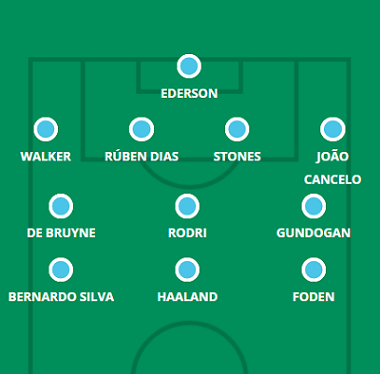
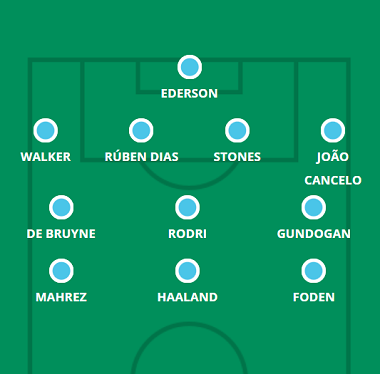
atualização 6° rodada

diff --git a/city.html b/city.html
@@ -66,7 +66,7 @@
             <hgroup>
                 <h1> Provável Escalação</h1>
                 <h2 class="direita"> por FabioVascão </h2>
-                <h3 class="direita"> Atualizado em 30/Agosto/2022 </h3>
+                <h3 class="direita"> Atualizado em 02/Setembro/2022 </h3>
             </hgroup>
     
             <h2 class="time"> <img src="_fotos/_logos/logocity.png" />Manchester City</h2>
@@ -75,9 +75,9 @@
                     <img src="_fotos/_dinamicas/city.png" />
                 </figure>
             </aside>
-                <div class="escalacao"><h2 class="titulo">Ultimas Notícias</h2> <h4><p>Pep Guardiola nos deu muito pouco sobre as notícias da equipe na conferência de imprensa de terça-feira, então o status atual de disponibilidade de Jack Grealish (pancada), Nathan Ake (lesão na virilha), Kalvin Phillips (lesão no ombro) e Luke Mbete (lesão na cabeça) é desconhecido. A única coisa que recebemos do chefe do City foi que Ilkay Gundogan não foi titular contra o Palace por causa de cansaço, então o alemão poderia voltar à disputa aqui depois que sua introdução ajudou a influenciar uma vitória na 4° Rodada. A rotação é grande esta semana, já que a programação de dois jogos por semana do City começa agora, e um jogo em casa contra um time recém-promovido faz soar um pouco o alarme. Os jogadores 'acertados' que começaram todas as partidas nesta temporada, como Rodri, Kevin De Bruyne, Erling Haaland, os dois zagueiros e Phil Foden, terão fôlego em algum momento, embora a regra dos 'cinco substitutos' permita várias retiradas antecipadas se o jogo estiver pronto e espanado. Pelo menos três quartos da linha defensiva (incluindo os dois zagueiros) permanecerão inalterados para este, com a única alteração possível sendo um primeiro início de liga para Sergio Gomez às custas de João Cancelo ou Kyle Walker. Pode ser novamente dois de três de Bernardo Silva, Gundogan e Riyad Mahrez ao lado dos sempre presentes mais avançados, entretanto, com Mahrez periférico contra o Palace antes de ser fisgado na marca da hora. O coringa no pelotão pode ser Julian Alvarez: não apenas uma opção para fora se necessário, ele também é o vice de Haaland no meio - algo que Guardiola discutiu em seu presser pré-jogo ("quando Erling não jogar, vamos jogar contra Julian ").</p></h4><br>
-                    <h4><strong>Jogadores fora da próxima partida:</strong> Aké, Delap, Laporte, Mcatee e Steffen</h4><br><br>
-                    <h4><strong>Jogadores dúvidas:</strong> Grealish, Mbete e Phillips</h4>
+                <div class="escalacao"><h2 class="titulo">Ultimas Notícias</h2> <h4><p>Aymeric Laporte (lesão no joelho) permanece de fora e Kalvin Phillips (lesão no ombro) ainda não voltou aos treinos, mas Jack Grealish (torção) e Nathan Ake (lesão na virilha) estão de volta à grama com seus companheiros de equipe e podem retornar ao elenco da rodada neste fim de semana. Pelo menos três quartos da linha de fundo provavelmente permanecerão inalterados para este, uma vez que um início pode estar além de Ake, com a única alteração possível sendo um início de primeira liga para Sergio Gomez às custas de João Cancelo ou Kyle Walker; Ele ganhar  minutos como substituto no segundo tempo parecem o cenário mais provável lá novamente. Kevin De Bruyne certamente retornará após sua surpresa no banco no meio da semana, então provavelmente será novamente dois de três de Bernardo Silva, Gundogan e Riyad Mahrez ao lado dos regulares mais à frente, com Bernardo entrando nesta partida após quatro partidas consecutivas pelo City , apenas um dos quais - o amistoso contra o Barcelona - o viu substituído. Mahrez, por sua vez, foi titular em casa e fora contra o Villa em 2021/22, se isso contar alguma coisa. A questão na boca de todos é se Erling Haaland vai começar de novo, com Pep Guardiola fazendo comentários positivos quando perguntado sobre como lidar com seu norueguês com cuidado - o técnico do City disse que "não é um problema" para um atacante de 22 anos se recuperar facilmente durante um período de congestionamento de jogos. Julian Alvarez provavelmente compartilhará minutos com o norueguês de uma forma ou de outra, enquanto a dupla começou no mesmo time na quarta-feira na goleada de 6-0 do Forest.</p></h4><br>
+                    <h4><strong>Jogadores fora da próxima partida:</strong> Laporte</h4><br><br>
+                    <h4><strong>Jogadores dúvidas:</strong> Aké, Grealish e Phillips</h4>
                 </div> 
         </header>
         </article>

diff --git a/westham.html b/westham.html
@@ -66,7 +66,7 @@
             <hgroup>
                 <h1> Provável Escalação</h1>
                 <h2 class="direita"> por FabioVascão </h2>
-                <h3 class="direita"> Atualizado em 30/Agosto/2022 </h3>
+                <h3 class="direita"> Atualizado em 02/Setembro/2022 </h3>
             </hgroup>
     
             <h2 class="time"> <img src="_fotos/_logos/logowestham.png" />West Ham</h2>
@@ -75,9 +75,9 @@
                     <img src="_fotos/_dinamicas/westham.png" />
                 </figure>
             </aside>
-                <div class="escalacao"><h2 class="titulo">Ultimas Notícias</h2> <h4><p>Nayef Aguerd (lesão no tornozelo) é o único ausente definitivo para a viagem ao Aston Villa, mas Craig Dawson (lesão na coxa) e Ben Johnson (lesão na coxa) são considerados dúvidas significativas e Aaron Cresswell reclamou de dores na virilha após a vitória sobre o Aston Villa. A nova contratação Lucas Paqueta também não deve aparecer, já que os Hammers passam pela burocracia necessária com sua nova contratação. Este é o terceiro jogo em sete dias para o West Ham, enquanto uma viagem para o Chelsea segue no sábado - então David Moyes poderia fazer algumas mudanças para este. Pablo Fornals e Gianluca Scamacca começaram cada uma das duas últimas partidas oficiais e podem estar em risco de respiro, com Michail Antonio, Said Benrahma e Maxwel Cornet opções relativamente descansadas no ataque. Enquanto isso, Emerson Palmieri pode ter que substituir a lateral-esquerda se Cresswell e Johnson estiverem fora.</p></h4><br>
-                    <h4><strong>Jogadores fora da próxima partida:</strong> Aguerd</h4><br><br>
-                    <h4><strong>Jogadores dúvidas:</strong> Dawson e Johnson</h4>
+                <div class="escalacao"><h2 class="titulo">Ultimas Notícias</h2> <h4><p>Nayef Aguerd (lesão no tornozelo) e Ben Johnson (não especificado) estão definitivamente fora da viagem ao Chelsea, enquanto Aaron Cresswell (lesão múscular) e Gianluca Scamacca (gripe) terão que ser avaliados antes do jogo de sábado. Emerson Palmieri obviamente terá desenhos na camisa de Cresswell se o lateral-esquerdo perder, mas foi Angelo Ogbonna a quem David Moyes recorreu na quarta-feira quando Cresswell saiu, para que pudéssemos ver Ogbonna como zagueiro do lado esquerdo e Pablo Fornals novamente reprisa o papel híbrido de ala-esquerda/ala que ocupou na semana 5. É apenas uma questão de tempo até que Lucas Paquetá comece sua primeira partida na liga, mas Moyes, como fez com Scamacca e Maxwel Cornet, pode ter sua vez com o meio-campista brasileiro, dizendo aos jornalistas na sexta-feira que os Hammers "não querem empurrar alguém e esperar algo tão especial imediatamente" e que "conhecer a Premier League" seria importante. Michail Antonio continuará a liderar a linha se Scamacca não estiver em forma, com Said Benrahma como o provável peso se Moyes entregar a Paqueta sua estreia completa.</p></h4><br>
+                    <h4><strong>Jogadores fora da próxima partida:</strong> Aguerd e Johnson</h4><br><br>
+                    <h4><strong>Jogadores dúvidas:</strong> Cresswell, Dawson e Scamacca</h4>
                 </div> 
         </header>
         </article>

diff --git a/wolves.html b/wolves.html
@@ -66,7 +66,7 @@
             <hgroup>
                 <h1> Provável Escalação</h1>
                 <h2 class="direita"> por FabioVascão </h2>
-                <h3 class="direita"> Atualizado em 30/Agosto/2022 </h3>
+                <h3 class="direita"> Atualizado em 02/Setembro/2022 </h3>
             </hgroup>
     
             <h2 class="time"> <img src="_fotos/_logos/logowolves.png" />Wolverhampton</h2>
@@ -75,8 +75,8 @@
                     <img src="_fotos/_dinamicas/wolves.png" />
                 </figure>
             </aside>
-                <div class="escalacao"><h2 class="titulo">Ultimas Notícias</h2> <h4><p>Bruno Lage não enfrentará a mídia antes do prazo de terça-feira, então Chiquinho (lesão no joelho) é o único jogador que sabemos estar definitivamente ausente para a viagem ao Bournemouth. Os Wolves produziram boas atuações contra Spurs e Newcastle sem vencer, então provavelmente é mais fadiga do que forma que levará a quaisquer mudanças para o jogo de quarta-feira. Rayan Ait-Nouri é uma possibilidade de convocação se os minutos de Nelson Semedo forem cuidadosamente administrados após seu recente retorno de lesão, ou mesmo se Lage quiser ir para a jugular e escolher dois laterais ofensivos às custas de Jonny. Os seis da frente agora são obviamente as primeiras escolhas de Lage no meio-campo e no ataque, mas com três partidas para negociar no espaço de uma semana, nomes como Daniel Podence, Hwang Hee-chan, Leander Dendoncker e Adama Traore verão minutos de alguma variedade nas semanas 5 e 6.</p></h4><br>
-                    <h4><strong>Jogadores fora da próxima partida:</strong> Fabio Silva e Chiquinho</h4><br><br>
+                <div class="escalacao"><h2 class="titulo">Ultimas Notícias</h2> <h4><p>Chiquinho (lesão no joelho) é o único jogador que sabemos estar definitivamente ausente para a visita ao Southampton, com Bruno Lage a não reportar novas preocupações com o decepcionante empate com o Bournemouth. Lage nomeou o mesmo onze inicial em partidas sucessivas nas jornadas 4 e 5, então, sendo esta a terceira partida no espaço de uma semana e a exibição no Cherries sem gerente, nada que se destaque, pode haver uma mudança ou duas no Molineux. Daniel Podence injetou um pouco de vida nos procedimentos com sua participação especial no segundo tempo e pode ser lembrado aqui, seja à custa de Pedro Neto/Gonçalo Guedes ou talvez do veterano João Moutinho se Lage quiser mudar para um 4-4-2 mais ofensivo, ou 4-2-3-1 para resolver a falta de metas. Rayan Ait-Nouri também está pressionando pela inclusão na lateral-esquerda depois que Jonny sofreu no meio da semana, enquanto a mudança mais sísmica de todas seria a troca da guarda: Sasa Kalajdzic foi contratado para competir com Raul Jimenez, embora ele terá apenas um dia de treinamento adequado com seus novos companheiros de equipe antes da partida de sábado, então pode ser colocado em ação fora do banco.</p></h4><br>
+                    <h4><strong>Jogadores fora da próxima partida:</strong> Chiquinho</h4><br><br>
                     <h4><strong>Jogadores dúvidas:</strong> </h4>
                 </div> 
         </header>

diff --git a/index.html b/index.html
@@ -40,24 +40,24 @@
         <article>
         <header id="noticia"> 
             <hgroup>
-                <h1> Escalação da  5° Rodada </h1>
+                <h1> Escalação da  6° Rodada </h1>
                 <h2> por FabioVascão </h2>
-                <h3> Atualizado em 30/Agosto/2022 </h3>
+                <h3> Atualizado em 02/Setembro/2022 </h3>
             </hgroup>
-            <h2 class="titulo">  5° Rodada da Premier League - Time do Canal </h2>
+            <h2 class="titulo">  6° Rodada da Premier League - Time do Canal </h2>
                 <div class="imagem">
                     <picture> 
-                        <source media="(min-width:868px)" srcset="_fotos/_noticias/timecanal5g.png" type="image/png">
-                        <source media="(min-width:662px)" srcset="_fotos/_noticias/timecanal5m.png" type="image/png">
-                        <img src="_fotos/_noticias/timecanal5p.png" alt="Escalação da 5° Rodada" style="width:auto;">   
+                        <source media="(min-width:868px)" srcset="_fotos/_noticias/timecanal6g.jpg" type="image/png">
+                        <source media="(min-width:662px)" srcset="_fotos/_noticias/timecanal6m.png" type="image/png">
+                        <img src="_fotos/_noticias/timecanal6p.png" alt="Escalação da 6° Rodada" style="width:auto;">   
                     </picture>
                 </div>
-            <h4><p><strong>Escalação:</strong> Meslier, Cucurella, James, Perisic, Martinelli, Salah(C), Luis Diaz, Rodrigo, Gross, Jesus e Haaland.</p></h4></br>
-            <h4><p><strong>Banco:</strong> Ward, Walker, Neco Williams e Greenwood.</p></h4>
+            <h4><p><strong>Escalação:</strong> Meslier, Cucurella, James, Perisic, Martinelli, Salah(C), Luis Diaz, Gross, Darwin, Jesus e Haaland.</p></h4></br>
+            <h4><p><strong>Banco:</strong> Ward, Walker, Andreas e Neco Williams.</p></h4>
 
-            <h2 class="titulo"> Análise da 4° Rodada e Dicas para 5° Rodada </h2>  
+            <h2 class="titulo"> Análise da 5° Rodada e Dicas para 6° Rodada </h2>  
             <div class="picture">       
-                <iframe width="380" height="315" src="https://www.youtube.com/embed/3yPB-9RXp5w" title="YouTube video player" frameborder="0" allow="accelerometer; autoplay; clipboard-write; encrypted-media; gyroscope; picture-in-picture" allowfullscreen></iframe>
+                <iframe width="380" height="315" src="https://www.youtube.com/embed/gvdxOvtzHYU" title="YouTube video player" frameborder="0" allow="accelerometer; autoplay; clipboard-write; encrypted-media; gyroscope; picture-in-picture" allowfullscreen></iframe>
             </div>
         </header>
         </article>

diff --git a/noticias.html b/noticias.html
@@ -39,6 +39,38 @@
     <section>
         <article>
         <header id="noticia"> 
+
+            <hgroup>
+                <h1> Escalação da  6° Rodada </h1>
+                <h2> por FabioVascão </h2>
+                <h3> Atualizado em 02/Setembro/2022 </h3>
+            </hgroup>
+            <h2 class="titulo">  6° Rodada da Premier League - Time do Canal </h2>
+                <div class="picture">
+                    <picture> 
+                        <source media="(min-width:868px)" srcset="_fotos/_noticias/timecanal6g.jpg" type="image/png">
+                        <source media="(min-width:662px)" srcset="_fotos/_noticias/timecanal6m.png" type="image/png">
+                        <img src="_fotos/_noticias/timecanal6p.png" alt="Escalação da 6° Rodada" style="width:auto;">   
+                    </picture>
+                </div>
+            <h4><p><strong>Escalação:</strong> Meslier, Cucurella, James, Perisic, Martinelli, Salah(C), Luis Diaz, Gross, Darwin, Jesus e Haaland.</p></h4></br>
+            <h4><p><strong>Banco:</strong> Ward, Walker, Andreas e Neco Williams.</p></h4>
+
+            <hgroup>
+                <h1> Resultado da 5° Rodada do Fantasy Premier League 2022/2023  </h1>
+                <h2> por FabioVascão </h2>
+                <h3> Atualizado em 02/Setembro/2022 </h3>
+            </hgroup>
+                <h2 class="titulo">  Resultado 5° Rodada da Premier League - Time do Canal </h2>
+                <div class="picture">
+                    <picture> 
+                        <source media="(min-width:868px)" srcset="_fotos/_noticias/timecanalpontos5g.png" type="image/png">
+                        <source media="(min-width:662px)" srcset="_fotos/_noticias/timecanalpontos5m.png" type="image/png">
+                        <img src="_fotos/_noticias/timecanalpontos4p.png" alt="Pontuação 5° Rodada" style="width:auto;">   
+                    </picture>
+                </div>
+            <h4><p>Fizemos 68 pontos, 6 pontos acima da média. Estamos em 3.204.571 dentro dos 10.1 Milhões de jogadores. Nosso meio campo e ataque retornaram os pontos, na questão do capitão fomos salvos pelo Salah com 2 assistências e bônus 2, já que o Haaland fez 17 pontos.</p></h4></br>    
+
             <hgroup>
                 <h1> Escalação Especialista do Fantasy Premier League 2022/2023  </h1>
                 <h2> por FabioVascão </h2>

diff --git a/_css/estilo.css b/_css/estilo.css
@@ -76,9 +76,6 @@ main {
     float: left;
     border-right: 5px solid var(--cor1);
 }
-div.picture {
-    margin: 20px 60px;
-}
 div.imagem {
     margin-left: 20px;
 }
